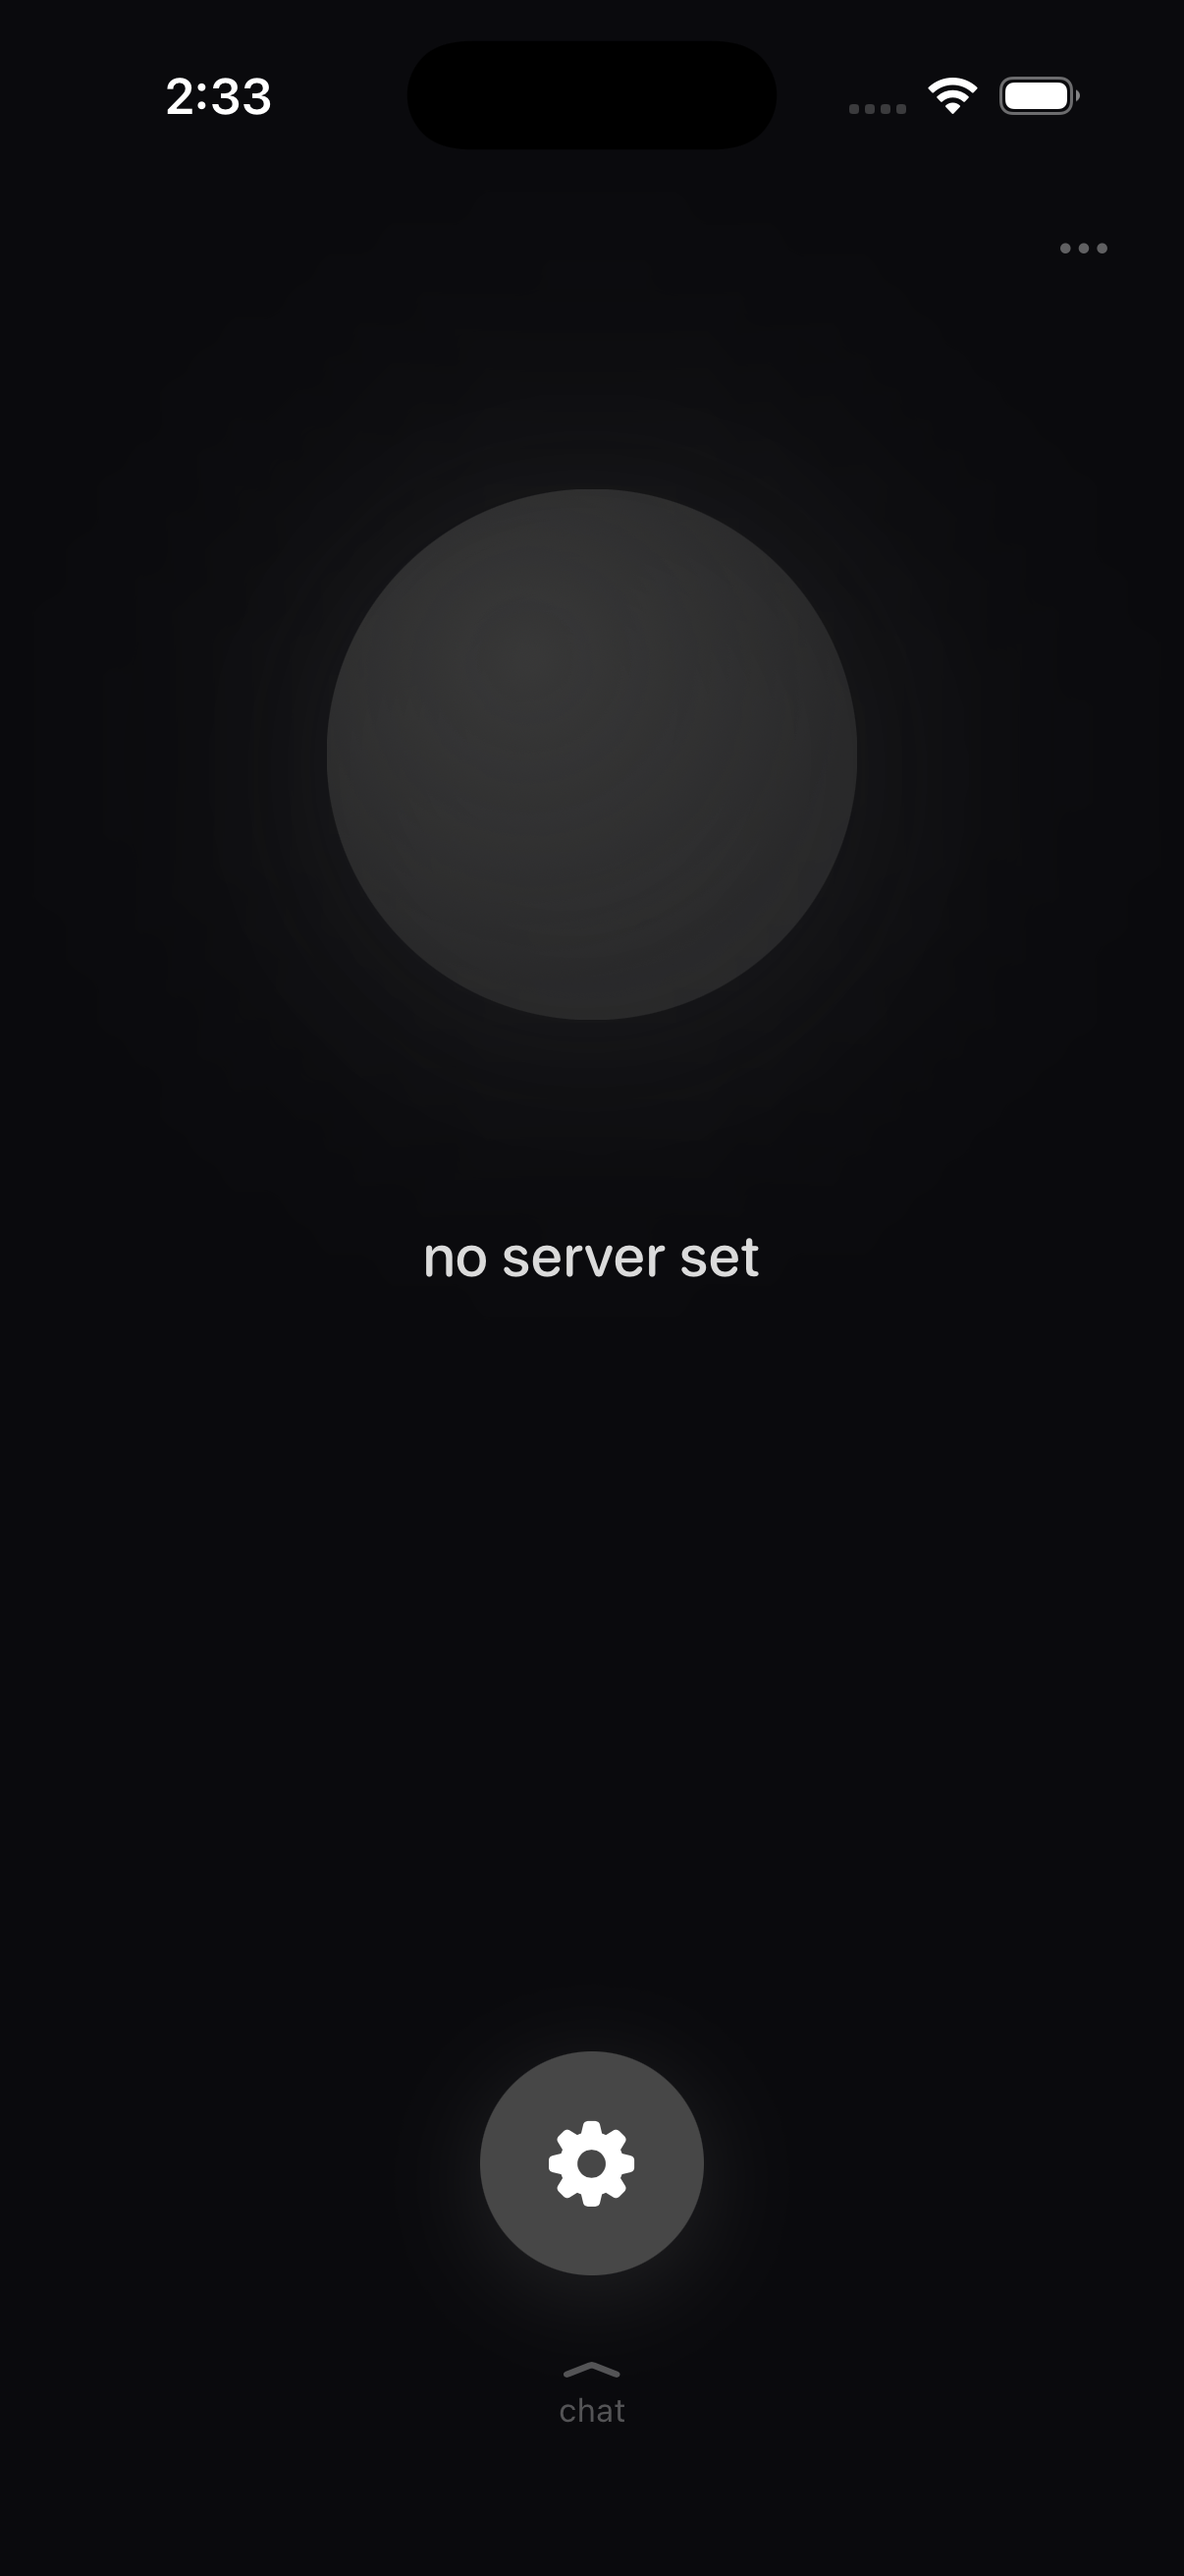
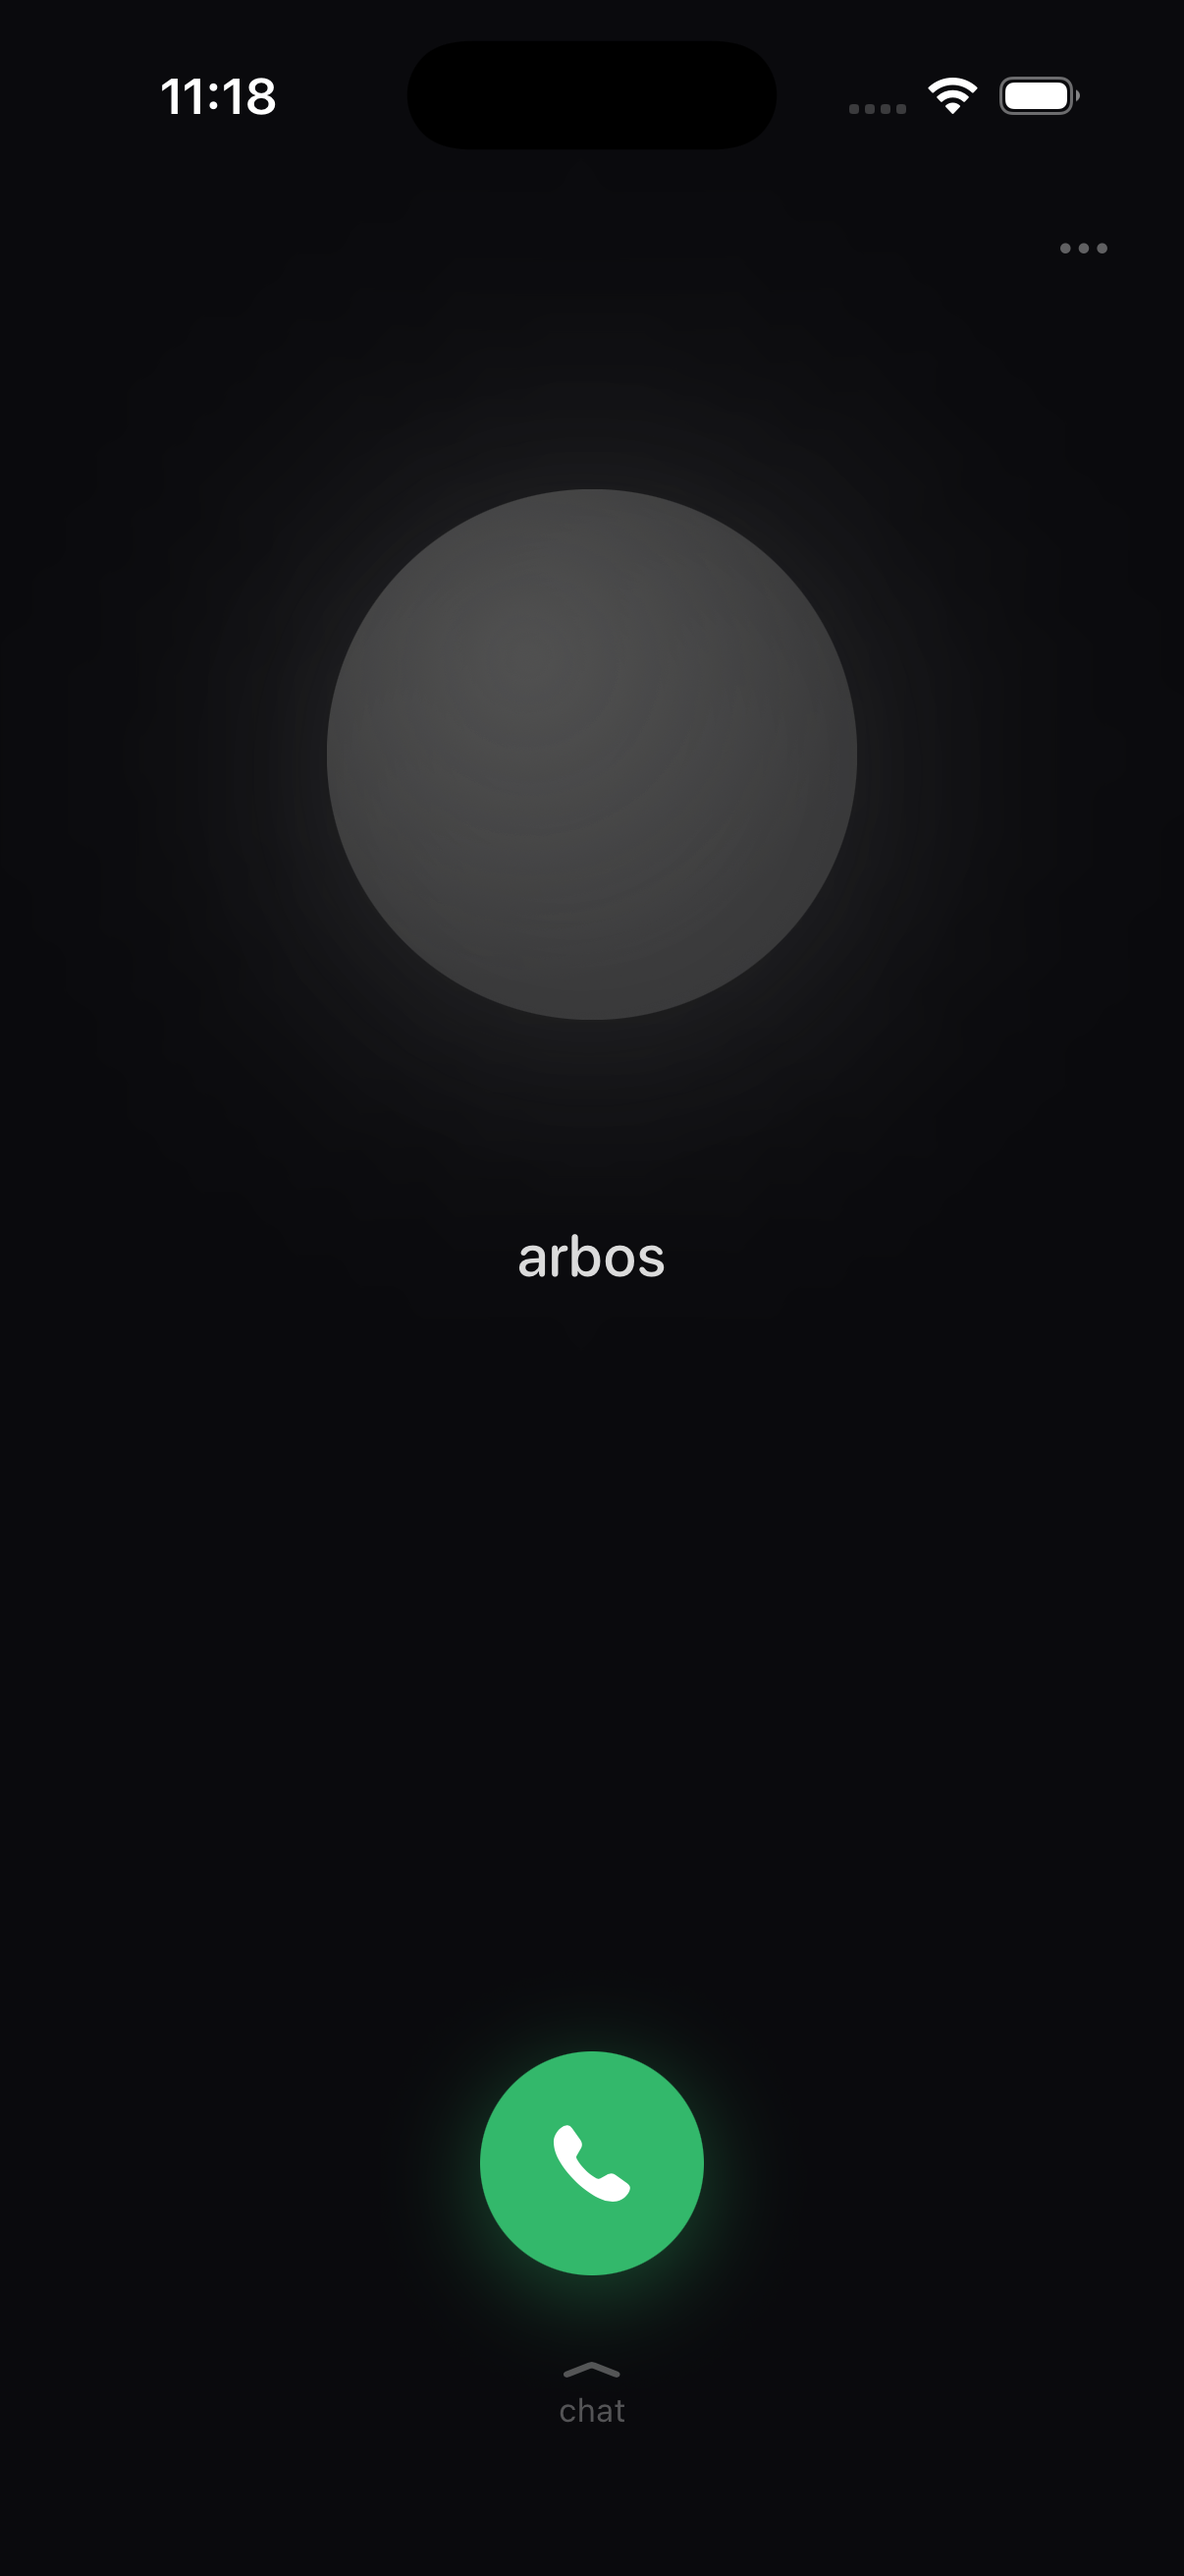
ios: -previewPicker opens the kernel picker; refresh idle and picker screenshots

diff --git a/ios/Arbos/Chat/MainChatView.swift b/ios/Arbos/Chat/MainChatView.swift
@@ -20,7 +20,12 @@ struct MainChatView: View {
         }
         .background(Color(red: 0.06, green: 0.06, blue: 0.07).ignoresSafeArea())
         .preferredColorScheme(.dark)
-        .onAppear { composing = focusComposer }
+        .onAppear {
+            composing = focusComposer
+            #if DEBUG
+            if UserDefaults.standard.bool(forKey: "previewPicker") { showTargets = true }
+            #endif
+        }
         .task { await chat.connect() }
         .sheet(isPresented: $showTargets) {
             TargetPickerView()
